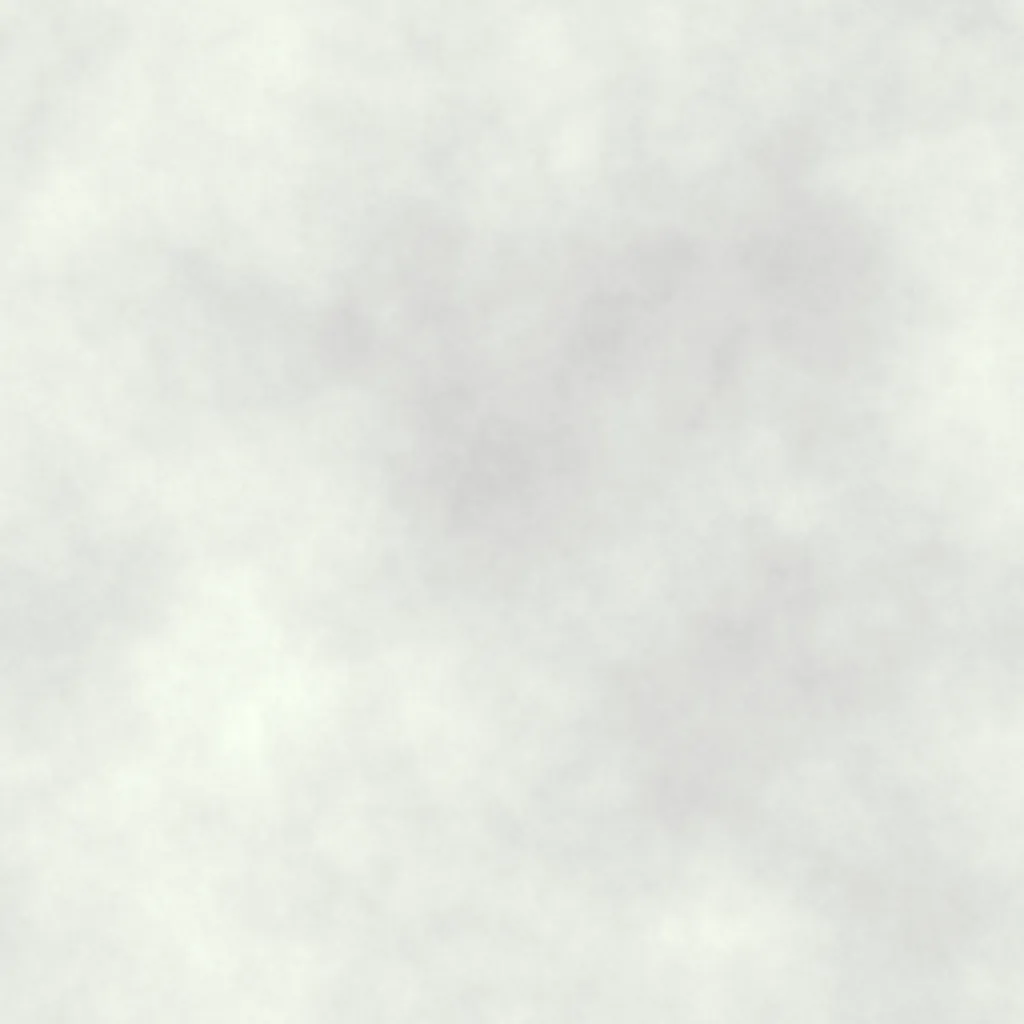
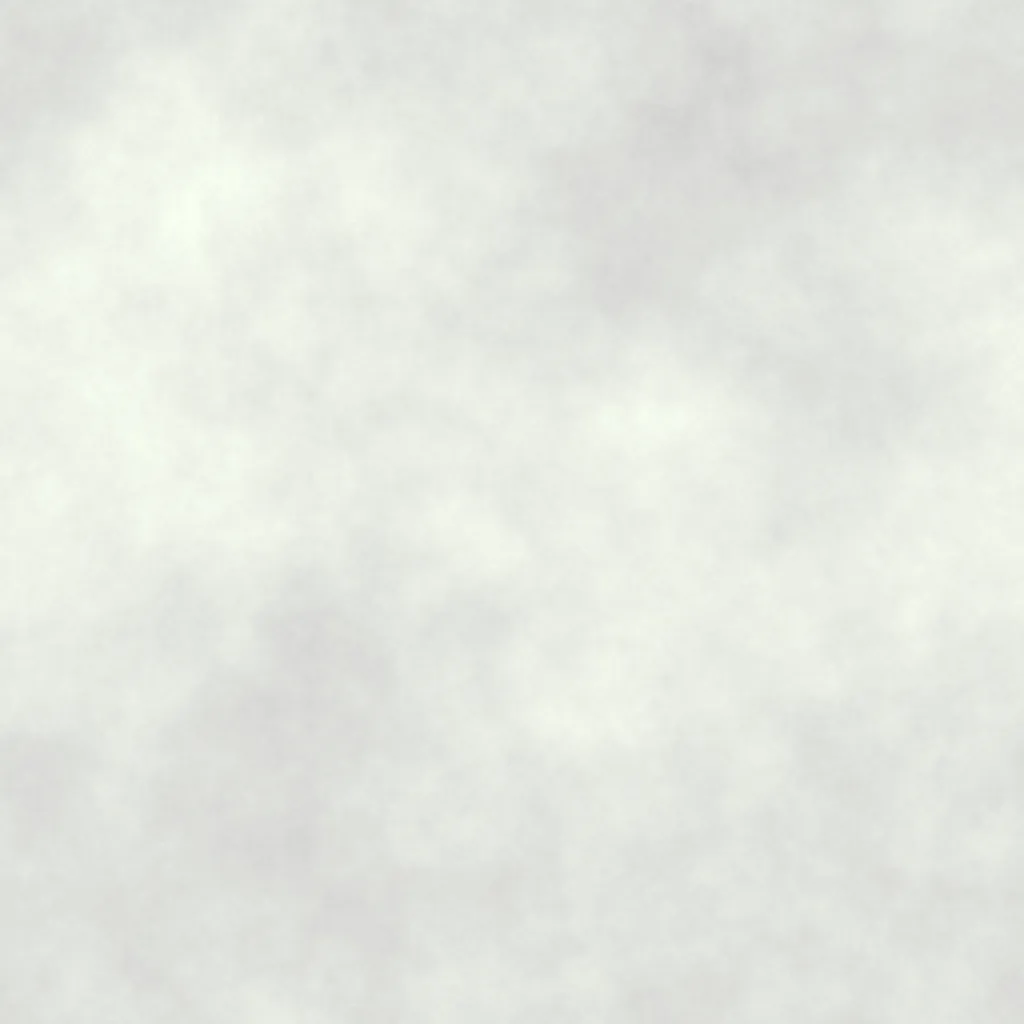
fix: remove roof artifacts and break grass tiling

diff --git a/src/game/engine/use-battlefield.ts b/src/game/engine/use-battlefield.ts
@@ -301,6 +301,8 @@ export function useBattlefieldEngine(context: BattlefieldEngineContext) {
         pavingRoughness: loadCampusTexture("campus-paving-roughness.webp"),
         facade: loadCampusTexture("campus-facade-detail.webp", true),
         facadeRoughness: loadCampusTexture("campus-facade-roughness.webp"),
+        roof: loadCampusTexture("campus-roof-detail.webp", true),
+        roofRoughness: loadCampusTexture("campus-roof-roughness.webp"),
         water: loadCampusTexture("campus-water-albedo.webp", true),
         waterNormal: loadCampusTexture("campus-water-normal.webp"),
         macro: loadCampusTexture("campus-macro-variation.webp"),
@@ -313,6 +315,8 @@ export function useBattlefieldEngine(context: BattlefieldEngineContext) {
       campusTextures.surfaceMask.minFilter = THREE.LinearMipmapLinearFilter;
       campusTextures.track.repeat.set(0.2, 0.2);
       campusTextures.trackRoughness.repeat.set(0.2, 0.2);
+      campusTextures.roof.repeat.set(0.18, 0.18);
+      campusTextures.roofRoughness.repeat.set(0.18, 0.18);
       campusTextures.water.repeat.set(0.18, 0.18);
       campusTextures.waterNormal.repeat.set(0.12, 0.12);
     }
@@ -335,6 +339,8 @@ export function useBattlefieldEngine(context: BattlefieldEngineContext) {
       if (!campusTextures) return material;
       material.onBeforeCompile = (shader) => {
         shader.uniforms.campusSurfaceMask = { value: campusTextures.surfaceMask };
+        shader.uniforms.campusGrassMap = { value: campusTextures.grass };
+        shader.uniforms.campusGrassRoughnessMap = { value: campusTextures.grassRoughness };
         shader.uniforms.campusAsphaltMap = { value: campusTextures.asphalt };
         shader.uniforms.campusPavingMap = { value: campusTextures.paving };
         shader.uniforms.campusAsphaltRoughnessMap = { value: campusTextures.asphaltRoughness };
@@ -346,6 +352,8 @@ export function useBattlefieldEngine(context: BattlefieldEngineContext) {
         shader.fragmentShader = shader.fragmentShader
           .replace("#include <common>", `#include <common>
 uniform sampler2D campusSurfaceMask;
+uniform sampler2D campusGrassMap;
+uniform sampler2D campusGrassRoughnessMap;
 uniform sampler2D campusAsphaltMap;
 uniform sampler2D campusPavingMap;
 uniform sampler2D campusAsphaltRoughnessMap;
@@ -358,6 +366,11 @@ vec3 campusSurfaceWeights = texture2D(campusSurfaceMask, campusSurfaceUv).rgb;
 float campusAsphaltWeight = campusSurfaceWeights.r;
 float campusPavingWeight = campusSurfaceWeights.g;
 float campusDirtWeight = campusSurfaceWeights.b;
+vec2 campusGrassPosition = vCampusWorldPosition.xz;
+vec2 campusGrassUvA = mat2(0.939693, -0.342020, 0.342020, 0.939693) * campusGrassPosition * 1.37;
+vec2 campusGrassUvB = mat2(0.642788, -0.766044, 0.766044, 0.642788) * campusGrassPosition * 0.43 + vec2(0.37, 0.19);
+vec3 campusGrassTone = mix(texture2D(campusGrassMap, campusGrassUvA).rgb, texture2D(campusGrassMap, campusGrassUvB).rgb, 0.34);
+diffuseColor.rgb *= campusGrassTone;
 vec3 campusAsphaltTone = texture2D(campusAsphaltMap, vCampusWorldPosition.xz * 8.0).rgb * 0.82;
 vec3 campusPavingTone = texture2D(campusPavingMap, vCampusWorldPosition.xz * 24.0).rgb * 0.93;
 vec3 campusDirtTone = vec3(0.34, 0.25, 0.15) * (0.9 + texture2D(campusAsphaltMap, vCampusWorldPosition.xz * 12.0).r * 0.25);
@@ -367,13 +380,46 @@ diffuseColor.rgb = mix(diffuseColor.rgb, campusDirtTone, campusDirtWeight);
 vec3 campusMacroTone = texture2D(campusMacroMap, vec2(campusSurfaceUv.x, 1.0 - campusSurfaceUv.y)).rgb * 1.11;
 diffuseColor.rgb *= mix(vec3(1.0), campusMacroTone, 0.22);`)
           .replace("#include <roughnessmap_fragment>", `#include <roughnessmap_fragment>
+float campusGrassRoughness = mix(texture2D(campusGrassRoughnessMap, campusGrassUvA).r, texture2D(campusGrassRoughnessMap, campusGrassUvB).r, 0.34);
+roughnessFactor = campusGrassRoughness;
 float campusAsphaltRoughness = texture2D(campusAsphaltRoughnessMap, vCampusWorldPosition.xz * 8.0).r;
 float campusPavingRoughness = texture2D(campusPavingRoughnessMap, vCampusWorldPosition.xz * 24.0).r;
 roughnessFactor = mix(roughnessFactor, campusAsphaltRoughness, campusAsphaltWeight);
 roughnessFactor = mix(roughnessFactor, campusPavingRoughness, campusPavingWeight);
 roughnessFactor = mix(roughnessFactor, 1.0, campusDirtWeight);`);
       };
-      material.customProgramCacheKey = () => "campus-unified-surface-v1";
+      material.customProgramCacheKey = () => "campus-unified-surface-v2";
+      return material;
+    };
+    const applyCampusBuildingSurface = (material: THREE.MeshStandardMaterial) => {
+      if (!campusTextures) return material;
+      material.onBeforeCompile = (shader) => {
+        shader.uniforms.campusRoofMap = { value: campusTextures.roof };
+        shader.uniforms.campusRoofRoughnessMap = { value: campusTextures.roofRoughness };
+        shader.uniforms.campusMacroMap = { value: campusTextures.macro };
+        shader.vertexShader = shader.vertexShader
+          .replace("#include <common>", "#include <common>\nattribute float campusRoofFactor;\nvarying float vCampusRoofFactor;\nvarying vec3 vCampusWorldPosition;")
+          .replace("#include <begin_vertex>", "#include <begin_vertex>\nvCampusRoofFactor = campusRoofFactor;")
+          .replace("#include <worldpos_vertex>", "#include <worldpos_vertex>\nvCampusWorldPosition = worldPosition.xyz;");
+        shader.fragmentShader = shader.fragmentShader
+          .replace("#include <common>", `#include <common>
+uniform sampler2D campusRoofMap;
+uniform sampler2D campusRoofRoughnessMap;
+uniform sampler2D campusMacroMap;
+varying float vCampusRoofFactor;
+varying vec3 vCampusWorldPosition;`)
+          .replace("#include <color_fragment>", `#include <color_fragment>
+vec3 campusFacadeTexture = texture2D(map, vMapUv).rgb;
+vec3 campusRoofTexture = texture2D(campusRoofMap, vMapUv).rgb;
+diffuseColor.rgb *= mix(vec3(1.0), campusRoofTexture / max(campusFacadeTexture, vec3(0.03)), step(0.5, vCampusRoofFactor));
+vec2 campusBuildingMacroUv = clamp((vCampusWorldPosition.xz - vec2(-66.0, -65.7355)) / vec2(132.0, 131.471), vec2(0.0), vec2(1.0));
+vec3 campusBuildingMacroTone = texture2D(campusMacroMap, vec2(campusBuildingMacroUv.x, 1.0 - campusBuildingMacroUv.y)).rgb * 1.11;
+diffuseColor.rgb *= mix(vec3(1.0), campusBuildingMacroTone, mix(0.06, 0.04, step(0.5, vCampusRoofFactor)));`)
+          .replace("#include <roughnessmap_fragment>", `#include <roughnessmap_fragment>
+float campusRoofRoughness = texture2D(campusRoofRoughnessMap, vMapUv).r;
+roughnessFactor = mix(roughnessFactor, campusRoofRoughness, step(0.5, vCampusRoofFactor));`);
+      };
+      material.customProgramCacheKey = () => "campus-building-surface-v1";
       return material;
     };
     const windowMaterials: THREE.MeshStandardMaterial[] = [],
@@ -1291,8 +1337,8 @@ roughnessFactor = mix(roughnessFactor, 1.0, campusDirtWeight);`);
         geo,
         applyCampusSurface(new THREE.MeshStandardMaterial({
           vertexColors: true,
-          map: campusTextures?.grass ?? null,
-          roughnessMap: campusTextures?.grassRoughness ?? null,
+          map: null,
+          roughnessMap: null,
           roughness: 0.98,
           side: THREE.FrontSide,
         })),
@@ -2003,6 +2049,7 @@ roughnessFactor = mix(roughnessFactor, 1.0, campusDirtWeight);`);
         bi: number[] = [],
         bc: number[] = [],
         bu: number[] = [],
+        bs: number[] = [],
         buildingPalette = [
           0x9aa7a3, 0xaca99f, 0xa49a90, 0x93a2aa, 0xb1a58f, 0x9da69a,
         ],
@@ -2090,6 +2137,7 @@ roughnessFactor = mix(roughnessFactor, 1.0, campusDirtWeight);`);
           if (pointIndex) facadeDistance += Math.hypot(p[0] - pts[pointIndex - 1][0], p[1] - pts[pointIndex - 1][1]);
           bp.push(p[0], realCampus ? terrainHeight(r, p[0], p[1]) : base, p[1], p[0], base + h, p[1]);
           bu.push(facadeDistance * 12, 0, facadeDistance * 12, Math.max(1, h * 40));
+          bs.push(0, 0);
           bc.push(
             wallTone.r,
             wallTone.g,
@@ -2103,8 +2151,9 @@ roughnessFactor = mix(roughnessFactor, 1.0, campusDirtWeight);`);
         const roofStart = bv;
         if (realCampus) for (const point of pts) {
           bp.push(point[0], base + h, point[1]);
-          bu.push(point[0] * 8, point[1] * 8);
+          bu.push(point[0] * 1.35, point[1] * 1.35);
           bc.push(roofTone.r, roofTone.g, roofTone.b);
+          bs.push(1);
           bv++;
         }
         const roofVertex = (index: number) => realCampus ? roofStart + index : start + index * 2 + 1;
@@ -2118,10 +2167,10 @@ roughnessFactor = mix(roughnessFactor, 1.0, campusDirtWeight);`);
           if (appearance.roof === "gabled") {
             const xs=pts.map((p:number[])=>p[0]),zs=pts.map((p:number[])=>p[1]),alongX=Math.max(...xs)-Math.min(...xs)>=Math.max(...zs)-Math.min(...zs),extent=(alongX?Math.max(...xs)-Math.min(...xs):Math.max(...zs)-Math.min(...zs))*.36,
               ridgeStart=bv,ridgeA=[x+(alongX?-extent:0),z+(alongX?0:-extent)],ridgeB=[x+(alongX?extent:0),z+(alongX?0:extent)];
-            for(const ridge of [ridgeA,ridgeB]){bp.push(ridge[0],base+h+appearance.roofHeight,ridge[1]);bu.push(ridge[0]*8,ridge[1]*8);bc.push(roofTone.r,roofTone.g,roofTone.b);bv++;}
+            for(const ridge of [ridgeA,ridgeB]){bp.push(ridge[0],base+h+appearance.roofHeight,ridge[1]);bu.push(ridge[0]*1.35,ridge[1]*1.35);bc.push(roofTone.r,roofTone.g,roofTone.b);bs.push(1);bv++;}
             for(let i=0;i<pts.length;i++){const j=(i+1)%pts.length,mid=(alongX?(pts[i][0]+pts[j][0])/2-x:(pts[i][1]+pts[j][1])/2-z);bi.push(roofVertex(i),roofVertex(j),ridgeStart+(mid>0?1:0));}
           } else {
-            const apex=bv;bp.push(x,base+h+appearance.roofHeight,z);bu.push(x*8,z*8);bc.push(roofTone.r,roofTone.g,roofTone.b);bv++;
+            const apex=bv;bp.push(x,base+h+appearance.roofHeight,z);bu.push(x*1.35,z*1.35);bc.push(roofTone.r,roofTone.g,roofTone.b);bs.push(1);bv++;
             for(let i=0;i<pts.length;i++){const j=(i+1)%pts.length;bi.push(roofVertex(i),roofVertex(j),apex);}
           }
         } else for (const face of THREE.ShapeUtils.triangulateShape(
@@ -2138,18 +2187,20 @@ roughnessFactor = mix(roughnessFactor, 1.0, campusDirtWeight);`);
       bg.setAttribute("position", new THREE.Float32BufferAttribute(bp, 3));
       bg.setAttribute("color", new THREE.Float32BufferAttribute(bc, 3));
       bg.setAttribute("uv", new THREE.Float32BufferAttribute(bu, 2));
+      bg.setAttribute("campusRoofFactor", new THREE.Float32BufferAttribute(bs, 1));
       bg.setIndex(bi);
       bg.computeVertexNormals();
-      const buildings = new THREE.Mesh(
-        bg,
-        applyCampusMacro(new THREE.MeshStandardMaterial({
+      const facadeBuildingMaterial = applyCampusBuildingSurface(new THREE.MeshStandardMaterial({
           vertexColors: true,
           map: campusTextures?.facade ?? null,
           roughnessMap: campusTextures?.facadeRoughness ?? null,
           roughness: 0.82,
           side: THREE.DoubleSide,
           flatShading: true,
-        }), 0.06),
+        }));
+      const buildings = new THREE.Mesh(
+        bg,
+        facadeBuildingMaterial,
       );
       buildings.receiveShadow = false;
       buildings.castShadow = true;
@@ -2216,8 +2267,6 @@ roughnessFactor = mix(roughnessFactor, 1.0, campusDirtWeight);`);
               roofAt(0, 0, base + height + 0.06, Math.max(0.16, length), 0.12, Math.max(0.16, depth));
               break;
             case "pku-library": {
-              const top = base + height;
-              for (const along of [-length * 0.31, 0, length * 0.31]) roofAt(along, 0, top + 0.025, length * 0.27, 0.05, depth * 0.58);
               boxAt(0, depth * 0.51, base + height * 0.32, length * 0.22, height * 0.42, 0.02, "#395d67");
               for (let step = 0; step < 4; step++) boxAt(0, depth * (0.53 + step * 0.025), base + 0.008 + step * 0.012, length * (0.28 + step * 0.06), 0.015, depth * 0.05, trim);
               break;
@@ -2285,11 +2334,16 @@ roughnessFactor = mix(roughnessFactor, 1.0, campusDirtWeight);`);
             dome: new THREE.SphereGeometry(0.5, 16, 8, 0, Math.PI * 2, 0, Math.PI / 2),
             roof: new THREE.ConeGeometry(0.5, 1, 4),
           },
-          accentMaterial = new THREE.MeshStandardMaterial({ color: 0xffffff, roughness: 0.82, metalness: 0.02 });
+          accentMaterials: Record<AccentKind, THREE.MeshStandardMaterial> = {
+            box: new THREE.MeshStandardMaterial({ color: 0xffffff, map: campusTextures?.facade ?? null, roughnessMap: campusTextures?.facadeRoughness ?? null, roughness: 0.84 }),
+            column: new THREE.MeshStandardMaterial({ color: 0xffffff, map: campusTextures?.facade ?? null, roughnessMap: campusTextures?.facadeRoughness ?? null, roughness: 0.88 }),
+            dome: new THREE.MeshStandardMaterial({ color: 0xffffff, map: campusTextures?.roof ?? null, roughnessMap: campusTextures?.roofRoughness ?? null, roughness: 0.86, metalness: 0.03 }),
+            roof: new THREE.MeshStandardMaterial({ color: 0xffffff, map: campusTextures?.roof ?? null, roughnessMap: campusTextures?.roofRoughness ?? null, roughness: 0.9 }),
+          };
         geometries.roof.rotateY(Math.PI / 4);
         for (const [kind, instances] of Object.entries(accents) as [AccentKind, Accent[]][]) {
           if (!instances.length) continue;
-          const mesh = new THREE.InstancedMesh(geometries[kind], accentMaterial, instances.length);
+          const mesh = new THREE.InstancedMesh(geometries[kind], accentMaterials[kind], instances.length);
           instances.forEach((instance, index) => { mesh.setMatrixAt(index, instance.matrix); mesh.setColorAt(index, instance.color); });
           mesh.instanceMatrix.needsUpdate = true;
           if (mesh.instanceColor) mesh.instanceColor.needsUpdate = true;

diff --git a/scripts/real-campus-scene-audit.ts b/scripts/real-campus-scene-audit.ts
@@ -75,13 +75,13 @@ const report={
   roads:{all:region.roads.length,campusFeatures:campusRoads.length,kinds:roadKinds,named:region.roads.filter((road:any)=>road.name).length,surfaceTagged:region.roads.filter((road:any)=>road.surface).length,bridgeTagged:region.roads.filter((road:any)=>road.bridge).length,sidewalkTagged:region.roads.filter((road:any)=>road.sidewalk).length,minWidthMeters:Number((Math.min(...region.roads.map((road:any)=>road.width))*metersPerWorld).toFixed(2)),maxWidthMeters:Number((Math.max(...region.roads.map((road:any)=>road.width))*metersPerWorld).toFixed(2)),estimatedSurfaceHectares:Number((region.roads.reduce((sum:number,road:any)=>sum+road.points.slice(1).reduce((length:number,point:number[],index:number)=>length+Math.hypot(point[0]-road.points[index][0],point[1]-road.points[index][1]),0)*road.width,0)*metersPerWorld*metersPerWorld/10000).toFixed(2)),campusEndpoints:campusEndpoints.length,directEndpointConnections:directConnections,nearEndpointConnectors:visuallyStitched,tJunctionConnectors:tJunctionStitched,legitimateOrUnresolvedDeadEnds:unmatched},
   ground:{landcovers:region.landcovers.length,campusLandcovers:campusLandcovers.length,landcoverKinds,landcoverHectares:hectares(region.landcovers),campusLandcoverHectares:hectares(campusLandcovers),hardscapes:region.hardscapes.length,campusHardscapes:campusHardscapes.length,hardscapeKinds,hardscapeHectares:hectares(region.hardscapes),campusHardscapeHectares:hectares(campusHardscapes),waters:region.waters.length,campusWaters:campusWaters.length,waterHectares:hectares(region.waters),campusWaterHectares:hectares(campusWaters)},
   trees:{osmPoints:region.trees.length,campusOsmPoints:campusOsmTrees.length,osmRows:region.treeRows.length,campusOsmRows:campusTreeRows.length,satelliteCandidates:{pku:SATELLITE_TREE_POINTS.pku.length,thu:SATELLITE_TREE_POINTS.thu.length},renderCap:2600,visualFamilies:4},
-  materials:{macroBytes:statSync(new URL("../public/materials/campus-macro-variation.webp",import.meta.url)).size,surfaceMaskBytes:statSync(new URL("../public/materials/campus-surface-mask.png",import.meta.url)).size,leafAlbedoBytes:statSync(new URL("../public/materials/campus-leaf-albedo.webp",import.meta.url)).size,trackAlbedoBytes:statSync(new URL("../public/materials/campus-track-albedo.webp",import.meta.url)).size,waterAlbedoBytes:statSync(new URL("../public/materials/campus-water-albedo.webp",import.meta.url)).size,worldSpaceMacroShader:renderer.includes("campusMacroUv"),unifiedTerrainRoadSurface:renderer.includes("applyCampusSurface")&&renderer.includes("campusTextures?.surfaceMask && !road.bridge"),cohesiveNaturalMaterials:renderer.includes("treeCrownClusters")&&renderer.includes("campusTextures?.track")&&renderer.includes("campusTextures?.water"),genericRoofPlateRemoved:!renderer.includes("length * 0.94, 0.03, depth * 0.92, roof"),separateFacadeRoofVertices:renderer.includes("const roofVertex")&&renderer.includes("realCampus ? wallTone.r : roofTone.r"),terrainConformingFoundations:renderer.includes("Math.max(centerBase, ...pts.map"),windowSpatialBatches:renderer.includes("campusWindowCenter"),sparseNightWindows:renderer.includes("hash%100>=18")},
+  materials:{macroBytes:statSync(new URL("../public/materials/campus-macro-variation.webp",import.meta.url)).size,surfaceMaskBytes:statSync(new URL("../public/materials/campus-surface-mask.png",import.meta.url)).size,leafAlbedoBytes:statSync(new URL("../public/materials/campus-leaf-albedo.webp",import.meta.url)).size,trackAlbedoBytes:statSync(new URL("../public/materials/campus-track-albedo.webp",import.meta.url)).size,roofAlbedoBytes:statSync(new URL("../public/materials/campus-roof-detail.webp",import.meta.url)).size,waterAlbedoBytes:statSync(new URL("../public/materials/campus-water-albedo.webp",import.meta.url)).size,worldSpaceMacroShader:renderer.includes("campusMacroUv"),multiSampledGrass:renderer.includes("campusGrassUvA")&&renderer.includes("campusGrassUvB"),batchedRoofMaterial:renderer.includes("applyCampusBuildingSurface")&&renderer.includes("campusRoofFactor")&&!renderer.includes("buildingMaterialGroups"),unifiedTerrainRoadSurface:renderer.includes("applyCampusSurface")&&renderer.includes("campusTextures?.surfaceMask && !road.bridge"),cohesiveNaturalMaterials:renderer.includes("treeCrownClusters")&&renderer.includes("campusTextures?.track")&&renderer.includes("campusTextures?.water"),genericRoofPlateRemoved:!renderer.includes("length * 0.94, 0.03, depth * 0.92, roof"),separateFacadeRoofVertices:renderer.includes("const roofVertex")&&renderer.includes("realCampus ? wallTone.r : roofTone.r"),terrainConformingFoundations:renderer.includes("Math.max(centerBase, ...pts.map"),windowSpatialBatches:renderer.includes("campusWindowCenter"),sparseNightWindows:renderer.includes("hash%100>=18")},
 };
 assert.equal(campusBuildings.length,925);
 assert.equal(REAL_CAMPUS_LANDMARKS.length,143);
 assert.equal(selfIntersecting.length,0,`self-intersecting campus buildings: ${selfIntersecting.slice(0,8).join(", ")}`);
 assert.ok(report.roads.minWidthMeters>=1&&report.roads.maxWidthMeters<=30,"road width outside audited range");
 assert.ok(report.projection.heightRangeMeters<40&&report.projection.maxNeighborStepMeters<10,"terrain contains an implausible elevation cliff");
-assert.ok(report.materials.worldSpaceMacroShader&&report.materials.unifiedTerrainRoadSurface&&report.materials.cohesiveNaturalMaterials&&report.materials.genericRoofPlateRemoved&&report.materials.separateFacadeRoofVertices&&report.materials.terrainConformingFoundations&&report.materials.windowSpatialBatches&&report.materials.sparseNightWindows,"material/terrain regression");
+assert.ok(report.materials.worldSpaceMacroShader&&report.materials.multiSampledGrass&&report.materials.batchedRoofMaterial&&report.materials.unifiedTerrainRoadSurface&&report.materials.cohesiveNaturalMaterials&&report.materials.genericRoofPlateRemoved&&report.materials.separateFacadeRoofVertices&&report.materials.terrainConformingFoundations&&report.materials.windowSpatialBatches&&report.materials.sparseNightWindows,"material/terrain regression");
 writeFileSync(new URL("../docs/real-campus-scene-audit.json",import.meta.url),JSON.stringify(report,null,2)+"\n");
 console.log(JSON.stringify(report,null,2));

diff --git a/scripts/real-campus-regressions.ts b/scripts/real-campus-regressions.ts
@@ -46,7 +46,7 @@ assert.equal(upgradedUnit.targetSiteId,target.id);assert.equal(upgradedUnit.move
 const classicMapBytes=readFileSync(new URL("../src/osm-map-data.ts",import.meta.url));
[1 lines of base64/hex data omitted]
 const renderer=readFileSync(new URL("../src/game/engine/use-battlefield.ts",import.meta.url),"utf8");
-assert.ok(renderer.includes("REAL_BUILDING_BY_KEY")&&renderer.includes("namedRoadAt")&&renderer.includes("water.level - 0.08")&&renderer.includes("fallbackLevels")&&renderer.includes("const roofVertex")&&renderer.includes("realCampus ? wallTone.r : roofTone.r")&&renderer.includes("applyCampusSurface")&&renderer.includes("campusSurfaceMask")&&renderer.includes("campusTextures?.surfaceMask && !road.bridge")&&renderer.includes("treeCrownClusters")&&renderer.includes("campusTextures?.track")&&renderer.includes("campusTextures?.water")&&renderer.includes("distance<18")&&renderer.includes("localDistance<12")&&renderer.includes("distance < 22 && daytime")&&!renderer.includes("onVehicleSurface"));
+assert.ok(renderer.includes("REAL_BUILDING_BY_KEY")&&renderer.includes("namedRoadAt")&&renderer.includes("water.level - 0.08")&&renderer.includes("fallbackLevels")&&renderer.includes("const roofVertex")&&renderer.includes("realCampus ? wallTone.r : roofTone.r")&&renderer.includes("applyCampusSurface")&&renderer.includes("campusSurfaceMask")&&renderer.includes("campusGrassUvB")&&renderer.includes("applyCampusBuildingSurface")&&renderer.includes("campusRoofFactor")&&renderer.includes("campusTextures?.surfaceMask && !road.bridge")&&renderer.includes("treeCrownClusters")&&renderer.includes("campusTextures?.track")&&renderer.includes("campusTextures?.water")&&renderer.includes("distance<18")&&renderer.includes("localDistance<12")&&renderer.includes("distance < 22 && daytime")&&!renderer.includes("onVehicleSurface"));
 assert.ok(!renderer.includes("length * 0.94, 0.03, depth * 0.92, roof"),"generic dormitory roof plate returned");
-for(const asset of ["campus-grass-albedo.webp","campus-leaf-albedo.webp","campus-leaf-roughness.webp","campus-asphalt-albedo.webp","campus-track-albedo.webp","campus-track-roughness.webp","campus-paving-albedo.webp","campus-facade-detail.webp","campus-water-albedo.webp","campus-water-normal.webp","campus-macro-variation.webp","campus-surface-mask.png"])assert.ok(statSync(new URL(`../public/materials/${asset}`,import.meta.url)).size>500,`${asset} missing`);
+for(const asset of ["campus-grass-albedo.webp","campus-leaf-albedo.webp","campus-leaf-roughness.webp","campus-asphalt-albedo.webp","campus-track-albedo.webp","campus-track-roughness.webp","campus-paving-albedo.webp","campus-facade-detail.webp","campus-roof-detail.webp","campus-roof-roughness.webp","campus-water-albedo.webp","campus-water-normal.webp","campus-macro-variation.webp","campus-surface-mask.png"])assert.ok(statSync(new URL(`../public/materials/${asset}`,import.meta.url)).size>500,`${asset} missing`);
 console.log("PASS: 925 campus buildings, 143 landmarks, unified terrain/road surface, cohesive vegetation/water/sport materials, carved water, metre-scale buildings, connected roads and map compatibility");

diff --git a/scripts/build-campus-materials.py b/scripts/build-campus-materials.py
@@ -106,6 +106,14 @@ save("campus-facade-detail.webp", facade)
 facade_rough = np.repeat((210 + facade_noise[..., None] * 22), 3, axis=2)
 save("campus-facade-roughness.webp", facade_rough, 76)
 
+roof_noise = spectral_noise(1.45) * 0.24 + spectral_noise(3.0) * 0.1
+roof_grain = periodic_noise([(80, 0.045, 14), (170, 0.025, 18)])
+roof = np.zeros((SIZE, SIZE, 3), dtype=np.float32)
+roof[:] = np.array([214, 214, 207]) + roof_noise[..., None] * np.array([15, 15, 14]) + roof_grain[..., None] * np.array([7, 7, 6])
+save("campus-roof-detail.webp", roof)
+roof_rough = np.repeat((208 + roof_noise[..., None] * 20), 3, axis=2)
+save("campus-roof-roughness.webp", roof_rough, 76)
+
 water_height = spectral_noise(2.2) * 0.42 + spectral_noise(0.7) * 0.08
 gradient_y, gradient_x = np.gradient(water_height)
 normal = np.stack((-gradient_x * 2.2, -gradient_y * 2.2, np.ones_like(water_height)), axis=2)

diff --git a/docs/real-campus-v1.md b/docs/real-campus-v1.md
@@ -35,4 +35,4 @@
 
 ## 复现
 
-`npm run test:real-campus` 检查 925/143 条覆盖、来源引用、固定尺寸/材质/屋顶、据点可达、旧存档升级和 v0.3.13 经典几何哈希。`npm run audit:real-campus` 重新生成 [real-campus-scene-audit.json](real-campus-scene-audit.json)，核验建筑自交与重叠抑制、道路宽度和端点、地表面积、地形跳变、树木来源与多尺度材质。更新数据时依次运行 `node work/fetch-osm.mjs`、`npm run build:campus-surface`、`node scripts/fetch-satellite-references.mjs`、`python scripts/build-satellite-roof-colors.py` 和 `npx tsx scripts/build-real-campus-data.ts`；卫星原图只保存在被 Git 忽略的 `work/references`。地形着色器通过 `campus-surface-mask.png` 在同一个地形网格上混合草地、道路、路缘、步道和广场，桥梁仍保留独立几何。草地、复合树冠、湖水和运动场使用同一套低饱和、多尺度噪声、标准光照材质；`python scripts/build-campus-materials.py` 可重建全部本地原创材质。
+`npm run test:real-campus` 检查 925/143 条覆盖、来源引用、固定尺寸/材质/屋顶、据点可达、旧存档升级和 v0.3.13 经典几何哈希。`npm run audit:real-campus` 重新生成 [real-campus-scene-audit.json](real-campus-scene-audit.json)，核验建筑自交与重叠抑制、道路宽度和端点、地表面积、地形跳变、树木来源与多尺度材质。更新数据时依次运行 `node work/fetch-osm.mjs`、`npm run build:campus-surface`、`node scripts/fetch-satellite-references.mjs`、`python scripts/build-satellite-roof-colors.py` 和 `npx tsx scripts/build-real-campus-data.ts`；卫星原图只保存在被 Git 忽略的 `work/references`。地形着色器通过 `campus-surface-mask.png` 在同一个地形网格上混合草地、道路、路缘、步道和广场，桥梁仍保留独立几何。草地采用两组旋转、不同尺度的世界坐标采样并叠加整图宏观变化；屋顶通过顶点标记在单一建筑批次中使用独立纹理与粗糙度，不增加逐栋绘制。草地、复合树冠、湖水和运动场保持同一套低饱和、标准光照材质；`python scripts/build-campus-materials.py` 可重建全部本地原创材质。
